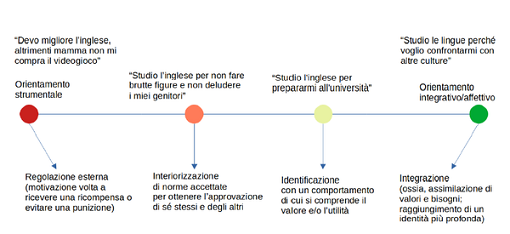
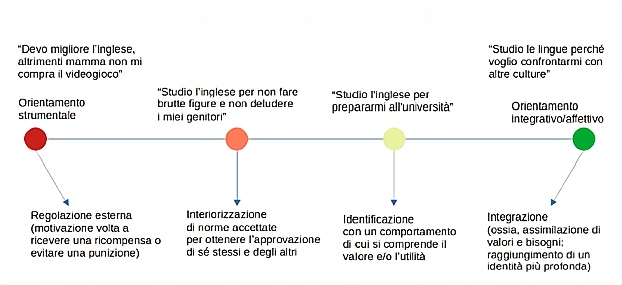
failing

diff --git a/portfolio.html b/portfolio.html
@@ -50,7 +50,7 @@
                 <h2>Tesi CLIL</h2>
                 <figure>
                     <img src="assets/img/ImgPortfolio2Medium.png" srcset="assets/img/ImgPortfolio2Medium.png 400w,
-                    assets/img/ImgPortfolio2Large.png 510w" sizes="(min-width:960px) 510px, (min-width:400px) 400px"
+                    assets/img/ImgPortfolio2Large.png 622w" sizes="(min-width:960px) 622px, (min-width:400px) 400px"
                     alt="Continuum fra orientamento strumentale e orientamento integrativo/affettivo"/>
                     <figcaption>Continuum fra orientamento strumentale e orientamento integrativo/affettivo in 
                     relazione ai fenomeni di apprendimento linguistico.</figcaption>
@@ -100,8 +100,6 @@
                     è quello del brand del sito di riferimento. Questo è un difetto estetico che un buon
                     UX/UI designer dovrebbe evitare. È emersa la paura di osare e sbagliare, ma lavorare 
                     su tale progetto è stato comunque utile per ambientarsi nel mondo dell'UX/UI design.</p>
-                </div>
-                <div class="buttons-container">
                     <button><a href="assets/docs portfolio/Progetto intro UX-UI di William Mariella.pdf"
                     title="Progetto intro UX/UI di William Mariella" 
                     download="Progetto_intro_UX/UI_di_William_Mariella" target="_blank">

diff --git a/assets/styles/partial_tablet_style.scss b/assets/styles/partial_tablet_style.scss
@@ -20,16 +20,8 @@
         margin: 0 auto;
         width: 80%;
     }
-    .buttons-container {
-        display: block;
-        justify-items: space-between;
-        margin: 30px 0;
-    }
 }
 @media only screen and (min-width: 700px) and (max-width: 959px) {
-    body {
-        font-size: 17px;
-    }
     nav a picture {
         margin-left: calc(8vw - 0.5em);
     }
@@ -45,13 +37,6 @@
     }
     .bio figure img {
         margin: 0 100%;
-    }
-    .buttons-container {
-        display: block;
-        justify-items: space-between;
-        button {
-            margin: none;
-        }
     }
 }
 

diff --git a/assets/styles/partial_tablet_style.css b/assets/styles/partial_tablet_style.css
@@ -19,16 +19,8 @@
     margin: 0 auto;
     width: 80%;
   }
-  .buttons-container {
-    display: block;
-    justify-items: space-between;
-    margin: 30px 0;
-  }
 }
 @media only screen and (min-width: 700px) and (max-width: 959px) {
-  body {
-    font-size: 17px;
-  }
   nav a picture {
     margin-left: calc(8vw - 0.5em);
   }
@@ -44,12 +36,5 @@
   }
   .bio figure img {
     margin: 0 100%;
-  }
-  .buttons-container {
-    display: block;
-    justify-items: space-between;
-  }
-  .buttons-container button {
-    margin: none;
   }
 }/*# sourceMappingURL=partial_tablet_style.css.map */

diff --git a/assets/styles/partial_laptop_style.css b/assets/styles/partial_laptop_style.css
@@ -42,11 +42,4 @@
   video {
     width: 50%;
   }
-  .buttons-container {
-    display: block;
-    justify-items: space-evenly;
-  }
-  .buttons-container button {
-    margin: none;
-  }
 }/*# sourceMappingURL=partial_laptop_style.css.map */

diff --git a/assets/styles/partial_laptop_style.scss b/assets/styles/partial_laptop_style.scss
@@ -41,11 +41,4 @@
     video {
         width: 50%;
     }
-    .buttons-container {
-        display: block;
-        justify-items: space-evenly;
-        button {
-            margin: none;
-        }
-    }
 }

diff --git a/assets/styles/styles.scss b/assets/styles/styles.scss
@@ -211,10 +211,6 @@ footer {
         margin-left: -15px;
         }
 }
-.buttons-container {
-    display: flex;
-    flex-flow: wrap column;
-}
 .content button,
 .buttons-container button {
     display: block;

diff --git a/assets/styles/styles.css b/assets/styles/styles.css
@@ -229,11 +229,6 @@ footer img {
   margin-left: -15px;
 }
 
-.buttons-container {
-  display: flex;
-  flex-flow: wrap column;
-}
-
 .content button,
 .buttons-container button {
   display: block;
